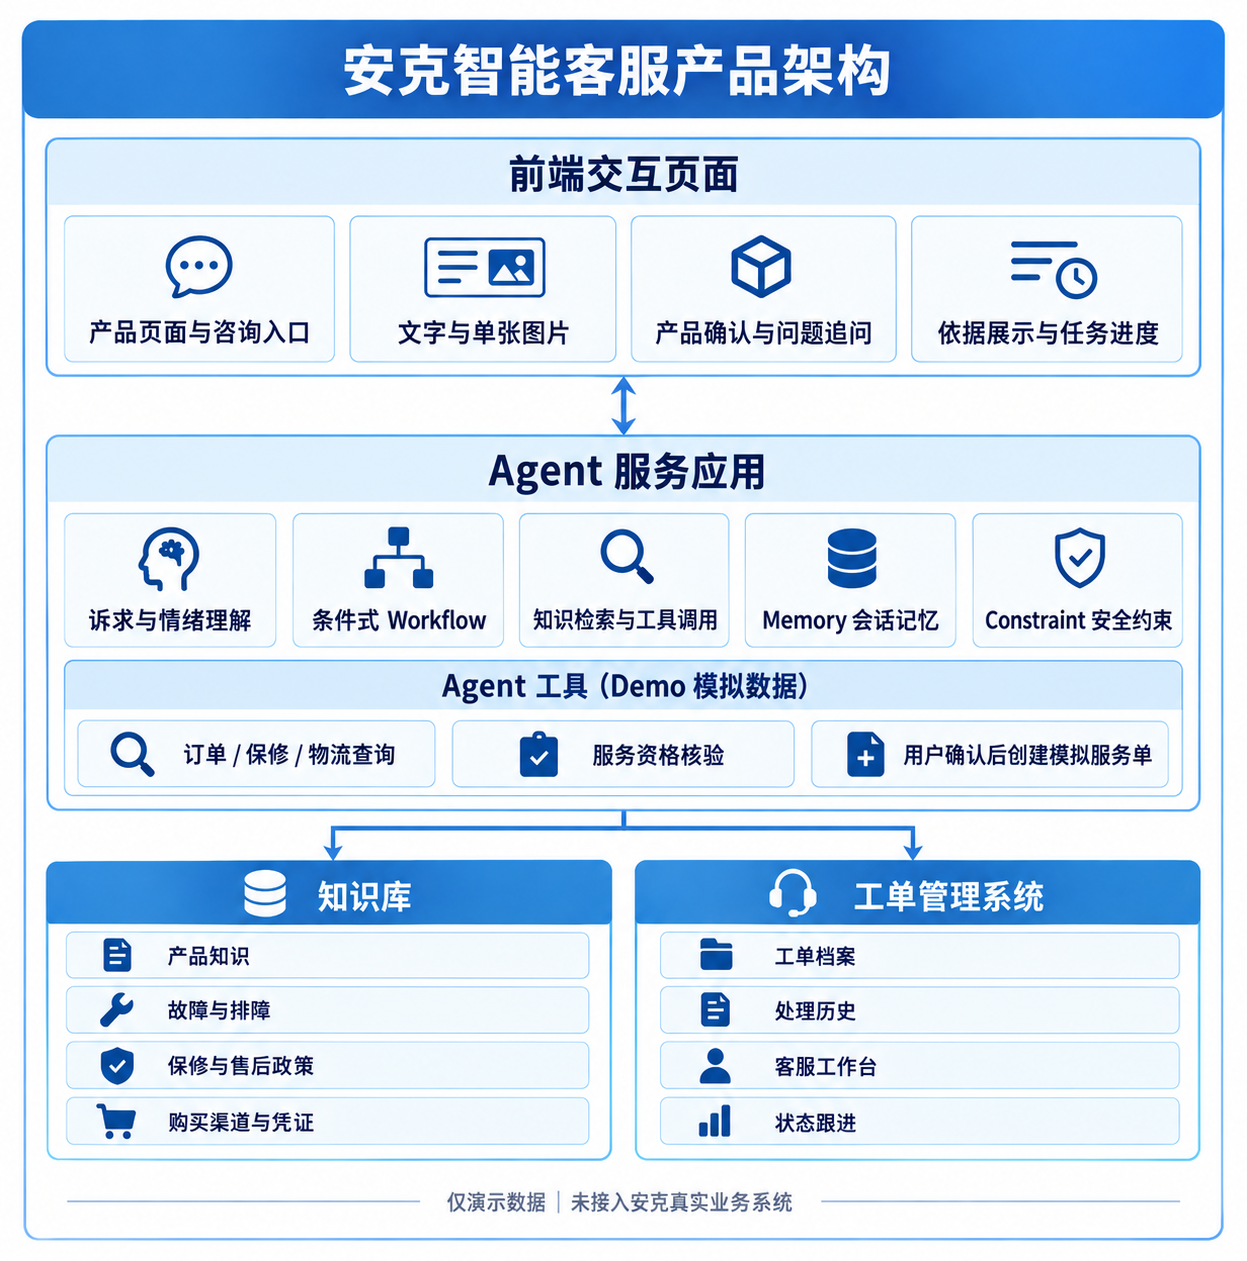
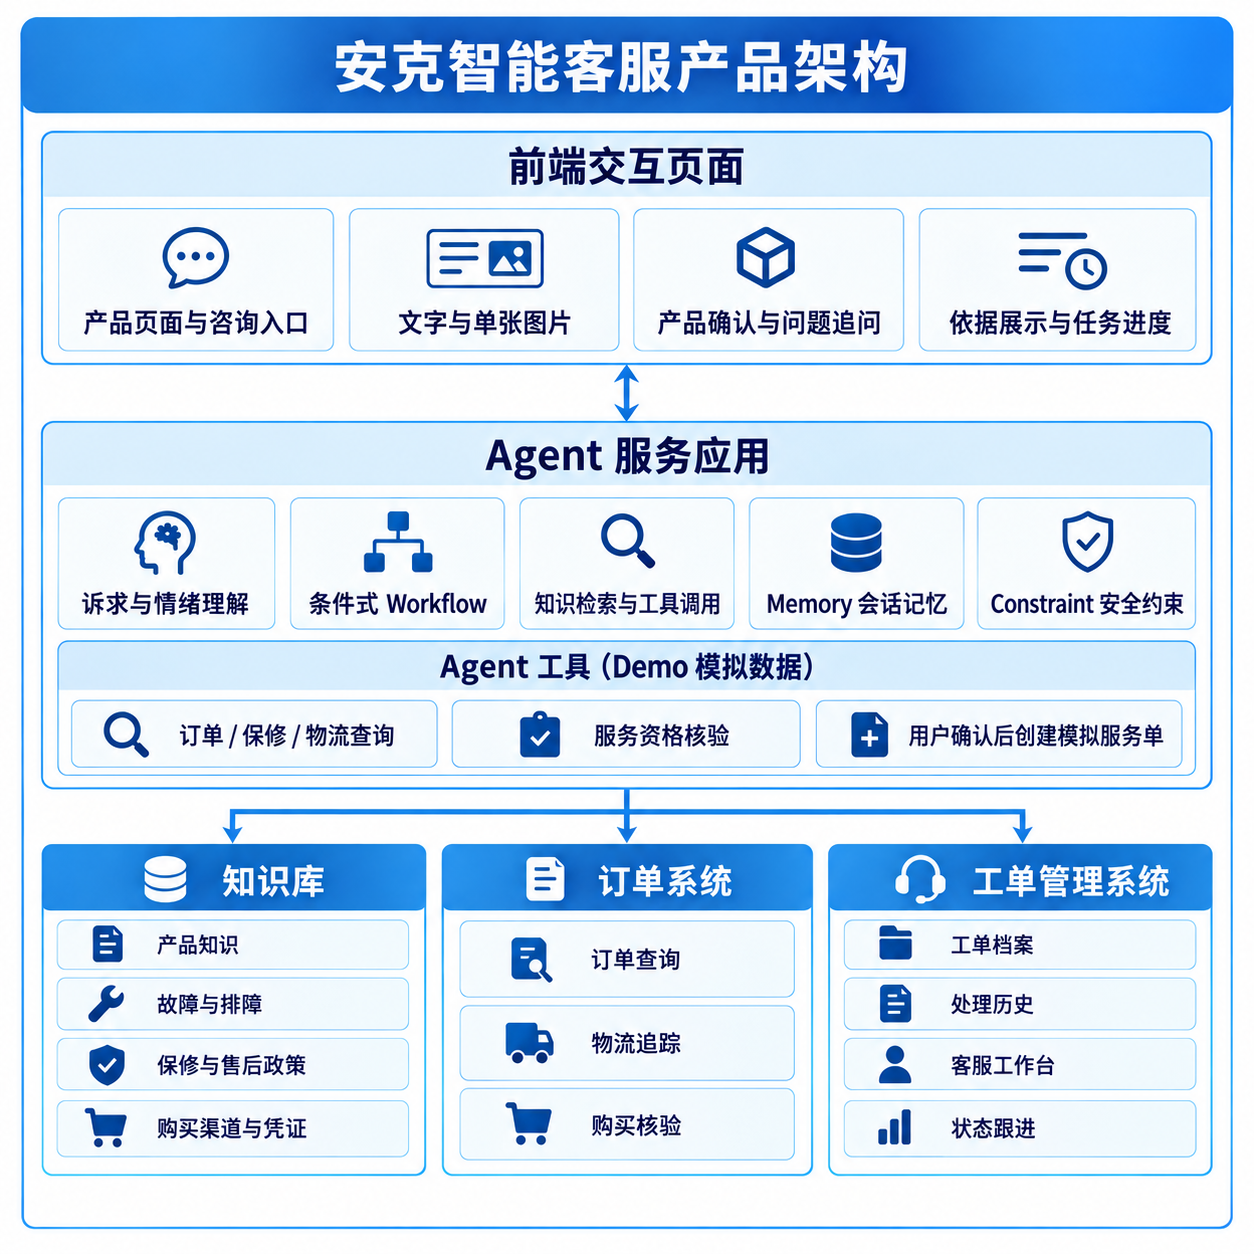
docs: save product proposal revisions and themed diagrams

Changed region(s): [[0.0, 0.0, 1.0, 0.9952], [0.0305, 0.0, 0.0609, 0.0311]]

diff --git a/04-方案设计/Anker智能客服产品方案.md b/04-方案设计/Anker智能客服产品方案.md
@@ -65,7 +65,7 @@ Sep 24, 2026 · @Tian
 
 #### 1.4 服务范围与核心难点
 
-［配图：售前与售后服务范围，沿用 assets/售前售后服务范围.png］
+![售前与售后服务范围](assets/售前售后服务范围-官网配色.png)
 
 基于上述分析，本方案聚焦用户购买之后的服务过程，不把“售后”缩窄为故障维修。用户可能要查询订单与配送、确认产品型号、学习使用和维护、了解适配的耗材与配件、排查故障、申请售后，也可能在申请后补充凭证、查询进度或反馈结果。
 
@@ -79,89 +79,125 @@ Sep 24, 2026 · @Tian
 
 ### 2. 具体方案说明（突出 AI 能力）
 
-#### 2.1 产品架构
+#### 2.1 产品方案
 
-![智能客服产品架构图](assets/智能客服产品架构.png)
-产品架构图回答的是这个产品能提供哪些能力。方案分为前端交互、Agent 服务应用、知识库、订单系统和工单系统五个部分，各部分按以下原则分工：
+##### 2.1.1 用户旅程
+![售后服务 User Flow](assets/售后服务-User-Flow-官网配色.png)
 
-- 前端交互负责呈现与确认：用户看到什么、能确认和纠正什么。
-- Agent 负责判断与执行：识别任务、决定追问什么、调用哪项能力、何时停止自助处理。
-- 知识库负责可复用的规则与资料：产品说明、排障方法、售后政策等，不随具体用户变化。
-- 订单系统与工单系统负责具体用户的实时数据：订单、物流、购买核验结果和服务记录，只能通过业务接口查询，不能由知识库推断。
+用户进入售后入口后，用文字或图片说明诉求，并按提示补充产品、订单或故障信息。信息齐备后，用户可查询订单与支付、咨询使用与维护、处理故障或申请售后，以及查询进度或反馈结果。用户查看处理结果或操作指引后，若问题已解决则确认完成；若仍未解决，则补充情况并继续处理。用户主动要求人工协助，或多轮处理后仍未解决时，经用户确认，将已知信息与处理记录一并交给人工接续。
 
-以下五节按一次服务中能力被用到的先后顺序展开。技术组件如何支撑这些能力，见 2.3 时序图。
+##### 2.1.2 产品架构
 
-##### 2.1.1 前端交互
+![智能客服产品架构图](assets/智能客服产品架构-官网配色.png)
 
-包含能力：多模态输入、型号确认、依据展示、任务进度。
+安克智能客服面向五条产品线，将订单查询、使用维护咨询、故障排查和售后跟进集中在同一对话入口。用户通过前端用文字或图片说明诉求，Agent 识别任务、追问缺失信息，并协调知识库、订单系统和工单系统推进处理。前端展示回答依据、任务进度和待确认事项，用户可以随时补充或纠正信息。
 
-用户可以用文字描述问题，必要时上传产品照片或购买凭证。页面显示当前识别到的产品和型号，遇到简称或型号歧义时，请用户确认或纠正后再继续。
+处理任务时，Agent 从知识库获取使用维护、故障排查及售后政策，从订单系统查询订单、支付、商品和物流信息，再结合查询结果给出答复或操作指引。知识检索按已确认的产品线、型号、地区和版本限定范围，并保留资料来源。用户补充的信息、系统给出的建议、实际尝试及反馈持续记录在当前任务中，作为下一步处理的依据。
 
-回答旁设置“依据与检索”区域，展示本次查找的资料类别、实际用于回答的来源及相关内容；没有找到足够依据时明确说明，不把推测包装成结论。这里展示的是可核验的检索结果，不是模型内部的推理过程。
-
-页面同时保留当前任务的简要进度，包括已确认的信息、Agent 建议过的步骤、用户实际尝试的步骤及反馈。用户可以纠正记录，避免换一轮对话就从头描述。
-
-##### 2.1.2 Agent 服务应用
-
-包含能力：任务识别、信息追问、工具调度、状态记录、边界判断。
-
-Agent 首先判断用户要完成哪类售后任务，再确认会影响答复的关键信息：产品线、具体型号；涉及服务规则时，还要核对地区和购买渠道。信息不足就追问，不用相似产品的资料直接给出型号专属的排障步骤或政策承诺。
-
-信息明确后，Agent 决定调用知识库、订单系统还是工单系统，并依据返回结果组织下一步。它分别记录“已确认的事实”“给过的建议”“用户说已尝试及其结果”和“仍未解决的问题”，不把建议自动记成已完成。且当证据不足、存在风险或自助处理无效时，Agent 说明原因并进入人工接续；遇到与售后无关的问题，说明服务边界，不编造答案。
-
-##### 2.1.3 知识库
-
-包含能力：按产品线组织知识（充电、能源、智能家居、影音、创作工具），每条产品线内再区分使用维护、故障排查、售后政策等知识类型。
-
-统一服务入口不等于混用知识。知识库先按产品线隔离，再用产品型号、地区及适用版本等信息限定检索范围，避免把某一型号或地区的说明误用于另一款产品。这也是 Agent 必须先确认产品线和型号的原因：确认之前，它不知道该去哪一部分检索。
-
-每条可用于回答的知识保留资料标题、来源链接及适用信息，支持前端展示回答依据。若来源冲突或不适用，Agent 继续核实或说明限制。
-
-待确认：售后政策是按产品线各自维护，还是以通用政策为主、个别产品线例外。这决定它放在每条产品线之下，还是作为共享知识单独成块。
-
-##### 2.1.4 订单系统
-
-包含能力：订单查询、物流追踪、购买核验。
-
-订单查询按订单号或手机号找到用户的订单，返回订单状态、支付状态和所购商品。订单记录中的具体商品，能为 Agent 确认型号提供事实依据，而不只依赖用户口述。
-
-物流追踪返回发货、运输、签收等配送状态及异常件信息。购买核验判断这笔购买能否被核实、来自哪个渠道；核实不了时，告诉用户需要补充哪些凭证。购买核验只确认购买事实，不判断保修资格。
-
-知识库中的“渠道与凭证要求”说明哪种渠道需要什么凭证，是静态规则；购买核验针对这位用户的具体购买做核实，是实时数据。两者分工不同，不重复。
-
-##### 2.1.5 工单系统
-
-包含能力：交接建单、分派流转、人工处理、进度跟进。
-
-自助服务无法解决时，工单承接的是一项尚未完成的任务，而不只是最后一条聊天消息。交接建单把 Agent 的任务状态整理成一张可接手的工单：已确认的产品与问题、查阅过的来源、建议过的步骤、用户实际尝试及其结果、未解决项和仍需补充的材料。用户先核对交接内容，再确认是否建单。
-
-分派流转按规则把工单交给合适的处理方，例如按产品线分组、涉及安全风险时提高优先级、超时升级。人工处理是客服接手工单、处理并更新状态的环节，客服看到的是完整交接记录，不需要重新向用户询问。
-
-进度跟进面向建单之后的用户：查询处理进度、追加凭证或照片、反馈处理结果。用户回到对话中即可沿着原有记录继续，不必重新描述问题。
-
-#### 2.2 用户旅程
-![售后服务 User Flow](assets/售后服务-User-Flow-用户版.png)
+证据不足、存在风险或自助处理无效时，Agent 将当前任务中的产品信息、问题、处理记录和待解决项整理为工单，经用户核对确认后交给人工。工单按产品线和处理规则分派，涉及安全风险时提高优先级，超时则升级。客服沿用已有记录接续处理并更新状态，用户仍可在原对话中补充材料、查询进度和反馈结果。
 
 
-这张图只呈现用户在一次售后服务中的动作：进入入口、说明诉求、补充信息、办理事项、查看结果，未解决时继续处理，必要时转人工接续。AI 如何识别任务、调用知识与业务能力，留到 2.3 时序图说明。
+#### 2.2 技术实现
 
-#### 2.3 时序图（待补充）
+##### 2.2.1 技术选型
 
-待补充：本节以一次典型售后服务为例，画出前端、Agent、知识库、订单系统和工单系统之间的交互顺序。技术组件不单独罗列，而是出现在它们支撑的交互环节中：
+| 模块 | 技术方案与用途 | 当前实现 |
+| --- | --- | --- |
+| 前端交互 | Web 页面通过 HTTP 与后端通信，呈现回复、引用来源和任务进度；通用对话采用 SSE 流式输出。 | 已有文本交互；S1 Pro 演示支持单张图片输入、来源和排障进度展示。 |
+| Agent 服务应用 | Python、FastAPI 承接会话与业务请求，LangChain 对接模型。结构化输出提取用户信息，任务状态保存处理进展。 | 通用客服由模型选择工具；S1 Pro 演示由状态机控制型号确认、排障反馈和建单确认。 |
+| 知识库 | MySQL 保存知识原文、来源和适用型号；BGE-M3 生成向量，Milvus 执行语义检索。 | 已实现向量召回、相似度阈值过滤和正文一致性校验；S1 Pro 在召回后按型号筛选。检索前分域、混合召回和重排属于方案设计。 |
+| 订单系统 | 通过工具函数提供订单、商品和物流查询，供 Agent 获取业务信息。 | 查询结果为模拟数据，尚未接入真实订单系统。 |
+| 工单系统 | MySQL 保存工单与交接摘要，客服查看页读取同一份记录。 | 已实现本地建单和查看，尚未接入安克客服系统。 |
 
-| 技术组件 | 支撑的能力（见 2.1） |
+模型通过云端接口调用，MySQL 和 Milvus 通过 Docker Compose 在本地运行。任务调度、状态管理和知识检索机制见 2.2.3。
+
+##### 2.2.2 时序图
+
+
+```mermaid
+sequenceDiagram
+    autonumber
+    actor U as 用户（前端页面）
+    participant AG as Agent 服务
+    participant M as 模型服务
+    participant KB as 知识库
+    participant OD as 订单系统
+    participant TK as 工单系统
+
+    loop 每轮对话，直到问题解决或转人工
+        U->>AG: 文字 / 图片
+        AG->>M: 理解本轮输入
+        M-->>AG: 产品候选、症状、反馈、建单意愿
+        Note over AG: 更新任务状态，决定下一步
+        alt 需要用户确认信息
+            AG-->>U: 请用户确认信息
+        else 信息已确认
+            AG->>KB: 检索（问题 + 已确认型号）
+            KB-->>AG: 适用资料与来源
+            opt 需要订单或购买信息
+                AG->>OD: 查询订单、物流或购买核验
+                OD-->>AG: 查询结果
+            end
+            AG-->>U: 下一步建议，附来源
+        end
+    end
+    opt 自助无效或缺少依据，且用户同意建单
+        AG->>TK: 创建工单（附交接摘要）
+        TK-->>AG: 工单号
+        AG-->>U: 工单已创建
+    end
+```
+
+图中，Agent 服务负责衔接前端与各后端系统，系统之间通过请求与响应交换信息：
+
+| 调用方向 | 请求内容 | 响应内容 |
+| --- | --- | --- |
+| 前端 → Agent 服务 | 用户输入的文字或图片 | 待确认信息、答复与来源，或建单结果 |
+| Agent 服务 → 模型服务 | 本轮输入的理解请求 | 产品候选、症状、反馈和建单意愿 |
+| Agent 服务 → 知识库 | 问题与已确认型号 | 适用资料及来源 |
+| Agent 服务 → 订单系统 | 订单、物流或购买核验请求 | 对应的业务查询结果 |
+| Agent 服务 → 工单系统 | 建单请求与交接摘要 | 工单号 |
+
+调用顺序上，模型服务先返回理解结果，Agent 再按任务状态发起所需查询，并在收到查询结果后汇总回复前端。建单请求须在用户确认后发出，工单系统返回工单号后，Agent 才向前端返回建单成功的消息。
+
+##### 2.2.3 关键技术设计
+
+###### 工具调度与权限控制
+
+Agent 通过 Function Calling 选择订单、商品、物流、知识查询或建单工具。执行前由服务端校验参数、用户身份和操作权限，并检查型号是否确认、用户是否同意建单等前置条件。
+
+订单和工单系统计划通过 MCP 接入，由各业务服务校验会话身份与数据权限。操作范围如下：
+
+| 操作范围 | 执行规则 |
 | --- | --- |
-| LLM | 任务识别、信息追问、答复组织 |
-| Workflow | 追问、查询、转人工等步骤的编排 |
-| Function Calling | 工具调度：调用知识库、订单系统、工单系统 |
-| Memory | 状态记录：已确认事实、建议、已尝试步骤、未解决项 |
-| Constraint | 边界判断：证据不足、存在风险或超出服务范围时的处理 |
+| 检索知识、查询当前用户的订单和物流 | 校验通过后自动执行 |
+| 创建工单、追加凭证 | 用户明确确认后执行 |
+| 退款、修改订单、批准保修资格、关闭工单 | 不授予 Agent 权限，整理信息转人工 |
+| 查询其他用户的数据 | 拒绝请求，不返回数据 |
 
-待确认：时序图选用哪个典型场景，例如“故障排查无效后转人工建单”。
 
-#### 2.4 实现与演示范围
+###### 任务状态与人工交接
 
-2.1 至 2.3 的图示表达的是目标架构和目标体验，本节集中说明演示版中哪些部分为真实实现、哪些为模拟。
+任务状态分别保存已确认事实、建议步骤、实际尝试、用户反馈和未解决事项；图片线索单独标注为待核实。Agent 每轮更新这份记录，据此继续追问、检索或处理。
+
+转人工时，从任务状态生成交接摘要，附上产品型号、原始诉求、症状、处理经过、图片线索和引用来源，经用户确认后建单。同一会话复用已有工单号，避免重复建单。
+
+###### 知识整理与检索
+
+资料按标题层级和完整句子切分，保留章节路径、表格表头、来源及适用信息。历史会话也可作为补充来源：抽取的问答须与原对话逐字对应，过滤识别出的手机号、订单号，以及失败回复、模拟数据和疑似提示注入内容，再与已有知识去重、合并；无法可靠判断时转人工审核。
+
+整理后的正文和来源保存在 MySQL，向量及内容哈希保存在 Milvus。入库先记录“待向量化”，向量写入后再标记完成，导入中断可续跑。检索结果通过内容哈希核对正文是否与向量一致，未同步的内容不用于回答。
+
+检索范围由已确认的产品信息决定。知识统一存储，按产品线组织，并标注通用、品类或型号等适用范围；型号确认后，检索该型号、所属品类及适用的通用资料，涉及政策时进一步匹配地区等条件。服务端先按这些字段限定范围，再执行向量检索；型号未确认时，只使用产品身份信息帮助澄清。
+
+在限定范围内，BGE-M3 稠密向量负责语义召回，BM25 补充型号、错误码等关键词匹配；合并为 Top 30 候选后，经重排模型选出 Top 5，再按知识域的相关性阈值过滤。阈值在校准集上以零误召回为约束选择，并用独立留出集验证。最终从 MySQL 读取正文，返回带官方来源的资料；没有足够依据时提示用户并提供人工接续入口。
+
+
+##### 2.2.4 实现与演示范围
+
+当前演示聚焦 S1 Pro（T2080）吸力变弱，已实现型号确认、知识检索、排障反馈、确认建单及本地工单查看。S1 Pro 由状态机触发检索和建单；通用客服由模型选择工具，每轮最多执行一个。通用工具和 S1 Pro 检索经过执行器校验参数、控制超时，并对暂时性故障重试一次；S1 Pro 建单直接调用工单存储逻辑。
+
+S1 Pro 检索目前采用 BGE-M3 稠密向量召回 Top 20，再筛选已确认型号、相似度达标且带官方来源的资料，并校验正文一致性。检索前分域、BM25 混合召回、重排及按知识域校准阈值尚未实现。订单、商品和物流查询使用模拟数据，工单保存在本地，尚未接入安克业务系统；MCP 接入与会话身份权限校验也属于后续设计。
 
 
 ### 3. 方案价值与预期效果
